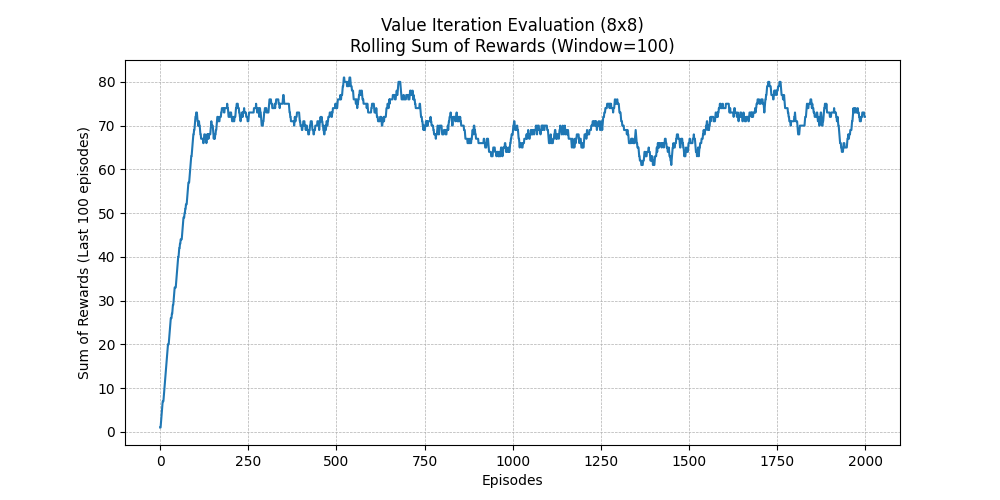
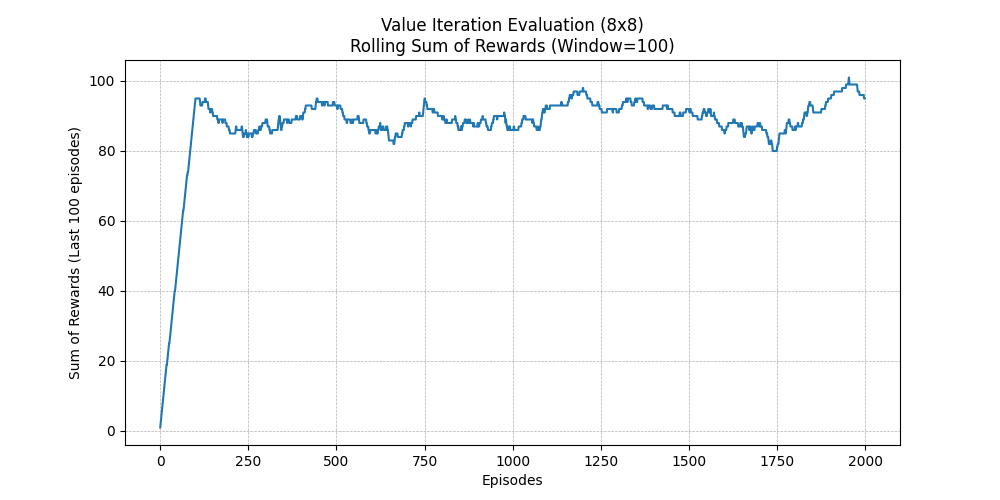
final version

diff --git a/part2/frozen_lake.py b/part2/frozen_lake.py
@@ -2,6 +2,11 @@ import gymnasium as gym
 import numpy as np
 import matplotlib.pyplot as plt
 import pickle
+from gymnasium.envs.toy_text.frozen_lake import generate_random_map
+
+# 設定種子碼 (Seed) 以生成固定的地圖
+seed_value = 42
+random_map = generate_random_map(size=8, p=0.8, seed=seed_value)
 
 
 def print_success_rate(rewards_per_episode):
@@ -114,7 +119,7 @@ def value_iteration(env, gamma=0.99, theta=1e-8):
     return policy
 
 def run_value_iteration(episodes=5000, render=False, load=False):
-    env = gym.make('FrozenLake-v1', map_name="8x8", is_slippery=True, success_rate=0.4, render_mode='human' if render else None)
+    env = gym.make('FrozenLake-v1', desc=random_map, is_slippery=True, render_mode='human' if render else None)
 
     # ---------------- load or compute policy ----------------
     if load:
@@ -252,9 +257,11 @@ def run_sarsa(episodes, is_training=True, render=False):
             pickle.dump(q, f)
 
 
+
 if __name__ == '__main__':
     run_value_iteration(episodes=15000, render=False, load=False)
     run_value_iteration(episodes=2000, render=False, load=True)
+    # run_value_iteration(episodes=1, render=True, load=True)
 
     # run(15000)
     # run(2000, is_training=False, render=False)
